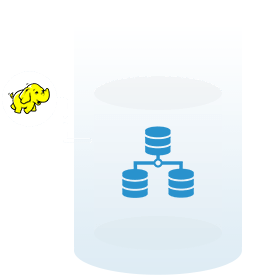
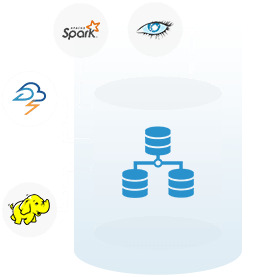
Added landing page for Apache Spark

diff --git a/en/big-data/apache-spark/_index.md b/en/big-data/apache-spark/_index.md
@@ -1,0 +1,29 @@
+---
+title: Apache Spark | Open Source Big Data Processing Framework
+description: Apache Spark is a big data processing engine that allows real-time stream processing and in-memory computing that increases the processing speed of the application.
+singlepageh1title: In-Memory Data Processing With Free Big Data Tool
+singlepageh2title: Flexible, Lightweight, and faster unified analytics engine for large-scale data processing. Integrated with Hadoop and supports multiple languages.
+Shortdescriptionlistingpage: Apache Spark is an open source big data processing engine for large-scale data processing. Increase processing speed of an application with in-memory computing.
+linktitle: Apache Spark
+Imagetext:  Free Big Data Tool
+draft: false
+weight: 2
+layout: "single"
+GithubLink: https://github.com/apache/spark
+HomePage_TitleText: Real-ime Data Processing Tool
+
+ListingPage_MenuImage_TitleText: 
+ListingPage_MenuImage_AltText: Apache Storm - Big Data Processing
+ListingPage_Link_TitleText: Explore Apache Spark
+
+SinglePage_HeaderImage_TitleText: Big Data Processing
+SinglePage_HeaderImage_AltText: Big Data Processing
+SinglePage_MenuImage_TitleText: Big Data Processing
+SinglePage_MenuImage_AltText: Big Data Processing
+
+
+---
+
+Apache Spark is a free and open source big data processing engine. It is based on Hadoop MapReduce and is designed for fast computation. Apache Spark extends the Hadoop MapReduce model to allow for more types of computations, such as interactive queries and stream processing, to be performed more efficiently. It supports in-memory cluster computing, which boosts an application's processing speed. Apache Spark handles a variety of workloads including iterative algorithms, interactive queries, and streaming. It comes with out-of-the-box features such as fault tolerance, advanced analytics, lazy evaluation, real-time stream processing, in-memory data processing, and many more.
+
+Over 80 high-level operators are available in Apache Spark, which can be used to create parallel applications. It also includes an API that allows for real-time stream processing. In Apache Spark, all transformations are Lazy in nature. It implies that instead of providing the result immediately, it creates a new RDD from the existing one. As a result, the system's performance is improved. Apache Spark supports multiple languages like Java, R, Scala, Python whereas Hadoop only supports Java language. Apache Spark allows in-memory processing of tasks that increase massive speed. Apache Spark works well with Hadoop's HDFS file system and multiple file-formats like parquet, JSON, CSV, ORC. Hadoop can be easily integrated with Apache Spark either as an input data source or destination.

diff --git a/en/big-data/apache-spark/installation.md b/en/big-data/apache-spark/installation.md
@@ -1,0 +1,49 @@
+---
+title: Installation Guide
+onpagelink: installation
+weight: 3
+
+---
+
+### Installation
+
+#### **Install Apache Spark on Ubuntu 18.04**
+
+Execute command to download Apache Spark.
+
+ ```
+$ wget https://archive.apache.org/dist/spark/spark-3.1.1/spark-3.1.1-bin-hadoop3.2.tgz
+```
+
+Extract the tar file using below command.
+
+ ```
+$ tar -zxf spark-3.1.1-bin-hadoop3.2.tgz
+```
+
+Move the extracted directory.
+
+ ```
+$ sudo mv spark-3.1.1-bin-hadoop3.2 /opt/spark
+```
+
+Open .bashrc file and add below lines into it.
+
+ ```
+export SPARK_HOME=/opt/spark
+export PATH=$PATH:$SPARK_HOME/bin:$SPARK_HOME/sbin
+```
+
+Activate the environment with the following command.
+
+ ```
+$ source ~/.bashrc
+```
+
+Start the Spark master server.
+
+ ```
+$ start-master.sh
+```
+
+Open browser and enter http://server-ip:8080 for accessing the web interface.

diff --git a/en/big-data/apache-spark/features.md b/en/big-data/apache-spark/features.md
@@ -1,0 +1,24 @@
+---
+title: Features
+onpagelink: features
+weight: 2
+
+---
+
+### Features
+--------
+
+Following are the key features of Apache Spark:
+
+- Free and open source
+- Fast processing speed
+- Flexible and ease to use
+- Real-time stream processing
+- Reusability
+- Fault tolerance
+- Support multiple languages
+- Integrated with Hadoop
+- Cost efficient
+- Advanced analytics
+- In-memory computing
+ 

diff --git a/en/big-data/apache-spark/requirements.md b/en/big-data/apache-spark/requirements.md
@@ -1,0 +1,15 @@
+---
+title: System Requirements
+onpagelink: requirements
+weight: 1
+
+---
+
+### System Requirements
+-------------------
+
+In order to install Apache Spark, you must have the following softwares:
+
+- Java
+- Scala
+ 
